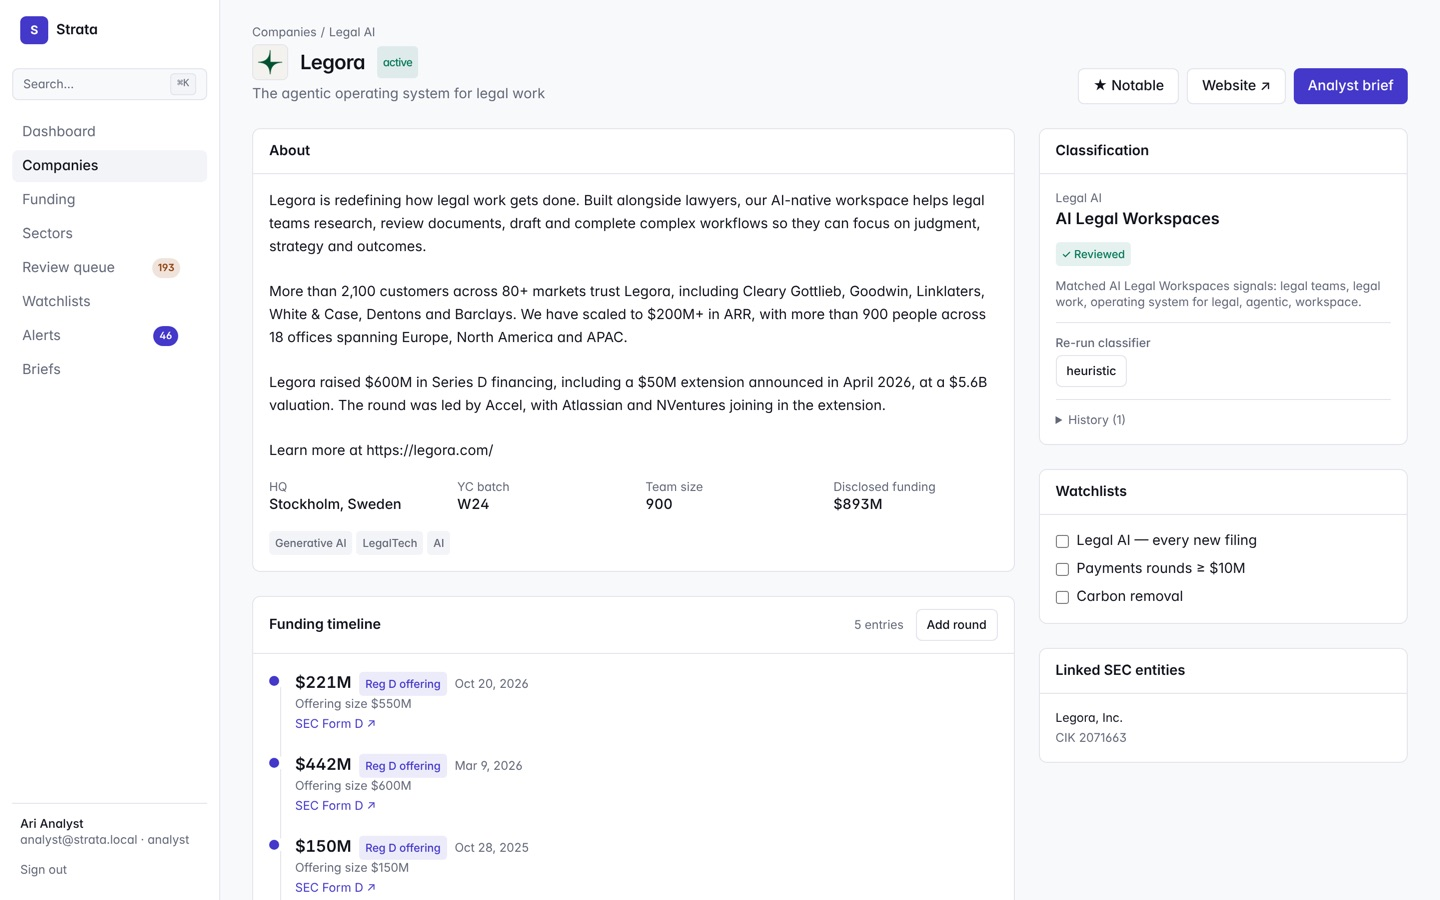
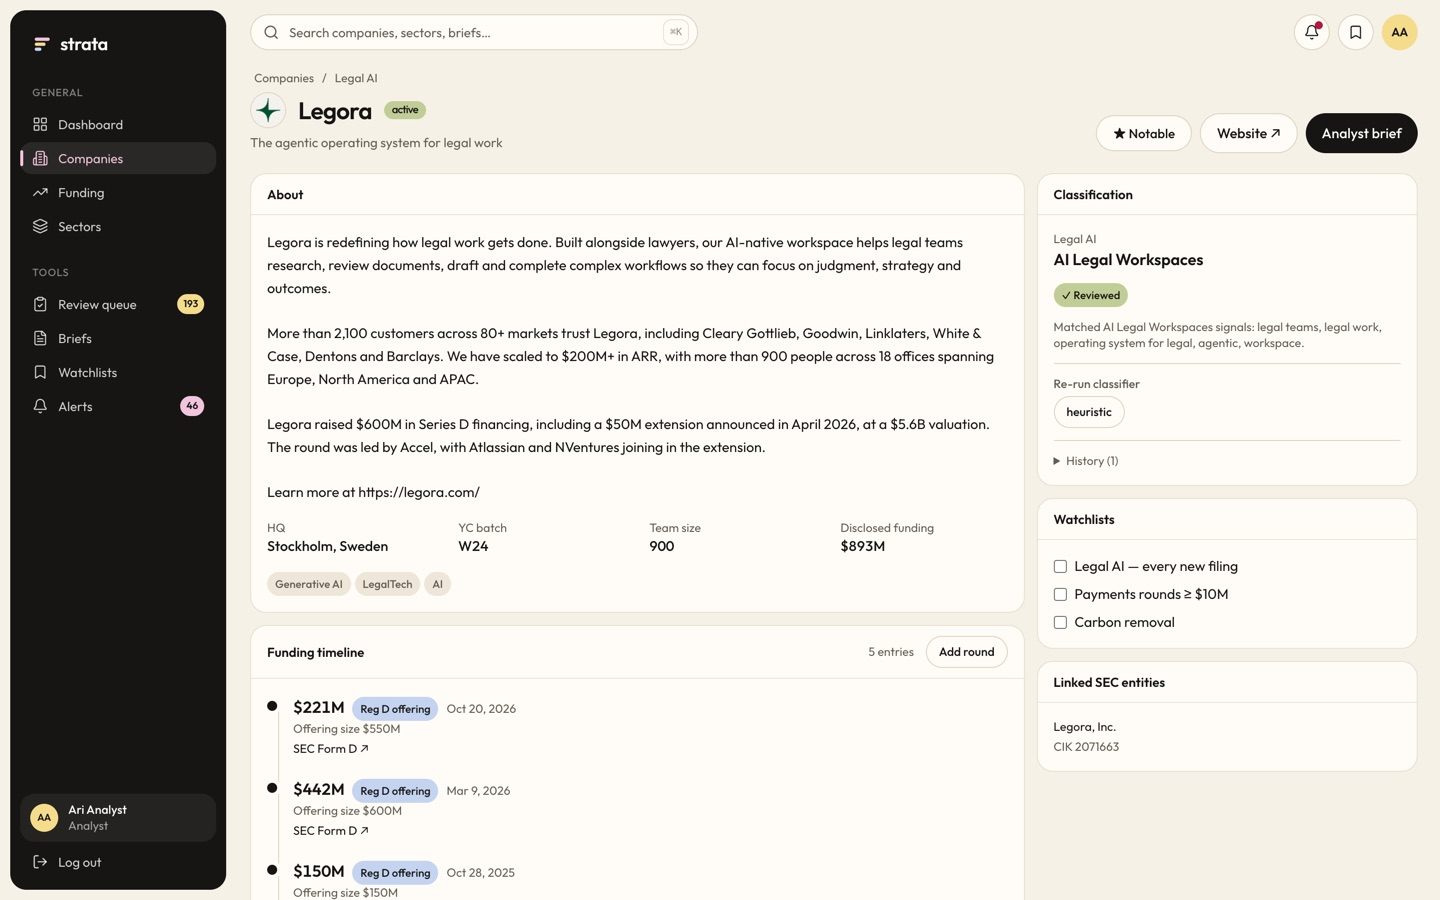
Strata screens carousel and refreshed case-study images
- Case-study screens now show as a swipeable carousel with arrows, dots,
  counter, synced caption and arrow-key support
- New Strata screenshots from the redesigned UI; dashboard as cover

diff --git a/components/ScreenCarousel.tsx b/components/ScreenCarousel.tsx
@@ -1,0 +1,107 @@
+"use client";
+
+import { useCallback, useEffect, useRef, useState } from "react";
+import { ChevronLeft, ChevronRight } from "lucide-react";
+
+type Shot = { src: string; caption: string };
+
+/** Case-study screens as a swipeable carousel: scroll-snap track, arrows, dots and arrow keys. */
+export function ScreenCarousel({ shots }: { shots: Shot[] }) {
+  const track = useRef<HTMLDivElement>(null);
+  const [index, setIndex] = useState(0);
+
+  const go = useCallback(
+    (i: number) => {
+      const el = track.current;
+      if (!el) return;
+      const n = (i + shots.length) % shots.length;
+      el.scrollTo({ left: n * el.clientWidth, behavior: "smooth" });
+    },
+    [shots.length],
+  );
+
+  // Keep the index in sync with swipes and trackpad scrolling.
+  useEffect(() => {
+    const el = track.current;
+    if (!el) return;
+    let frame = 0;
+    const onScroll = () => {
+      cancelAnimationFrame(frame);
+      frame = requestAnimationFrame(() => setIndex(Math.round(el.scrollLeft / el.clientWidth)));
+    };
+    el.addEventListener("scroll", onScroll, { passive: true });
+    return () => {
+      el.removeEventListener("scroll", onScroll);
+      cancelAnimationFrame(frame);
+    };
+  }, []);
+
+  if (shots.length === 1) {
+    const s = shots[0];
+    return (
+      <figure>
+        {/* eslint-disable-next-line @next/next/no-img-element */}
+        <img src={s.src} alt={s.caption} loading="lazy" decoding="async" className="w-full rounded-xl border border-line" />
+        <figcaption className="px-1 pt-2 text-sm text-ink/60">{s.caption}</figcaption>
+      </figure>
+    );
+  }
+
+  return (
+    <div
+      role="region"
+      aria-roledescription="carousel"
+      aria-label="Project screens"
+      tabIndex={0}
+      onKeyDown={(e) => {
+        if (e.key === "ArrowRight") go(index + 1);
+        if (e.key === "ArrowLeft") go(index - 1);
+      }}
+      className="rounded-xl outline-none focus-visible:ring-2 focus-visible:ring-ink/30"
+    >
+      <div className="relative">
+        <div ref={track} className="flex snap-x snap-mandatory overflow-x-auto overscroll-x-contain rounded-xl border border-line [scrollbar-width:none] [&::-webkit-scrollbar]:hidden">
+          {shots.map((s, i) => (
+            <div key={s.src} className="w-full shrink-0 snap-center" role="group" aria-roledescription="slide" aria-label={`${i + 1} of ${shots.length}`}>
+              {/* eslint-disable-next-line @next/next/no-img-element */}
+              <img src={s.src} alt={s.caption} loading={i === 0 ? "eager" : "lazy"} decoding="async" className="block w-full" />
+            </div>
+          ))}
+        </div>
+        {(["prev", "next"] as const).map((dir) => (
+          <button
+            key={dir}
+            type="button"
+            onClick={() => go(dir === "prev" ? index - 1 : index + 1)}
+            aria-label={dir === "prev" ? "Previous screen" : "Next screen"}
+            className={`absolute top-1/2 grid h-10 w-10 -translate-y-1/2 place-items-center rounded-full bg-white/90 text-ink shadow-[0_8px_24px_-8px_rgba(0,8,50,.45)] backdrop-blur transition hover:scale-105 hover:bg-white ${dir === "prev" ? "left-3" : "right-3"}`}
+          >
+            {dir === "prev" ? <ChevronLeft className="h-5 w-5" /> : <ChevronRight className="h-5 w-5" />}
+          </button>
+        ))}
+      </div>
+      <div className="flex items-start justify-between gap-4 px-1 pt-3">
+        <p className="min-h-[2.5rem] text-sm text-ink/60" aria-live="polite">
+          {shots[index]?.caption}
+        </p>
+        <div className="flex shrink-0 items-center gap-3">
+          <div className="flex gap-1.5">
+            {shots.map((s, i) => (
+              <button
+                key={s.src}
+                type="button"
+                onClick={() => go(i)}
+                aria-label={`Show screen ${i + 1}`}
+                aria-current={i === index}
+                className={`h-2 rounded-full transition-all duration-300 ${i === index ? "w-6 bg-ink" : "w-2 bg-ink/25 hover:bg-ink/45"}`}
+              />
+            ))}
+          </div>
+          <span className="font-mono text-[11px] tabular-nums text-ink/50">
+            {index + 1} / {shots.length}
+          </span>
+        </div>
+      </div>
+    </div>
+  );
+}

diff --git a/lib/projects.ts b/lib/projects.ts
@@ -40,9 +40,10 @@ export const PROJECTS: Project[] = [
       "LLM sector classification with confidence and a human review queue",
       "Kafka ingestion with idempotent upserts into MongoDB",
     ],
-    image: "/projects/strata-landscape.jpg",
+    image: "/projects/strata-dashboard.jpg",
     gallery: [
-      { src: "/projects/strata-dashboard.jpg", caption: "Dashboard: KPIs, quarterly funding by sector and the latest rounds from primary sources." },
+      { src: "/projects/strata-dashboard.jpg", caption: "Dashboard: click a quarter to see the rounds that make it up, with each one's share." },
+      { src: "/projects/strata-landscape.jpg", caption: "Legal AI landscape: KPIs and a market map of companies by subsector." },
       { src: "/projects/strata-review.jpg", caption: "Review queue: low-confidence labels, triaged from the keyboard." },
       { src: "/projects/strata-brief.jpg", caption: "Analyst brief: every claim footnoted to a stored source." },
       { src: "/projects/strata-company.jpg", caption: "Company profile: Form D funding timeline, sources and classification history." },
@@ -62,7 +63,7 @@ export const PROJECTS: Project[] = [
         "Startup databases are expensive, and their numbers are hard to check. An analyst mapping a sector needs to know which companies belong in it, what they raised and where each number came from.",
       user: "Market research analysts and investors who map a sector, track new rounds and write landscape briefs.",
       design:
-        "An analyst's workbench: a market map per sector, company profiles with a funding timeline, URL-shareable search and filters, a ⌘K palette, keyboard-driven review, watchlists and CSV export. Light and dark themes, responsive, with automated accessibility scans.",
+        "An analyst's workbench in a warm, compact pastel design system: a dashboard with computed insights, a market map per sector, company profiles with a funding timeline, URL-shareable search and filters, a ⌘K palette, keyboard-driven review, watchlists and CSV export. Click any quarter to drill into its rounds. Responsive, with automated accessibility scans.",
       tech:
         "Express 5 and TypeScript on MongoDB, with analytics written as aggregation pipelines and cached in Redis. Connectors (YC directory, SEC EDGAR, RSS, GitHub) publish to Redpanda (Kafka); a processor upserts on natural keys, and BullMQ runs classification, alerts and briefs. OpenAI, Anthropic and Gemini sit behind one provider interface. Next.js proxies the API so sessions and keys stay server-side.",
       hardProblem:

diff --git a/app/work/[slug]/page.tsx b/app/work/[slug]/page.tsx
@@ -4,6 +4,7 @@ import { notFound } from "next/navigation";
 import { ArrowLeft, ArrowUpRight } from "lucide-react";
 import { IconBrandGithub } from "@tabler/icons-react";
 import { Artboard, ButtonLink, CoverArt, PASTELS, PageShell, SelectionFrame, Sticker, Tag, delay, tagHead } from "@/components/ui-bits";
+import { ScreenCarousel } from "@/components/ScreenCarousel";
 import { caseStudies, getProject } from "@/lib/projects";
 
 export function generateStaticParams() {
@@ -93,17 +94,7 @@ export default async function ProjectPage({ params }: { params: Promise<{ slug: 
 
       {project.gallery && (
         <Artboard name="Screens" color="sky" className="mt-10" bodyClassName="!p-2 md:!p-3">
-          <ul className="grid gap-3">
-            {project.gallery.map((g) => (
-              <li key={g.src}>
-                <figure>
-                  {/* eslint-disable-next-line @next/next/no-img-element */}
-                  <img src={g.src} alt={g.caption} loading="lazy" decoding="async" className="w-full rounded-xl border border-line" />
-                  <figcaption className="px-1 pt-2 text-sm text-ink/60">{g.caption}</figcaption>
-                </figure>
-              </li>
-            ))}
-          </ul>
+          <ScreenCarousel shots={project.gallery} />
         </Artboard>
       )}
 
